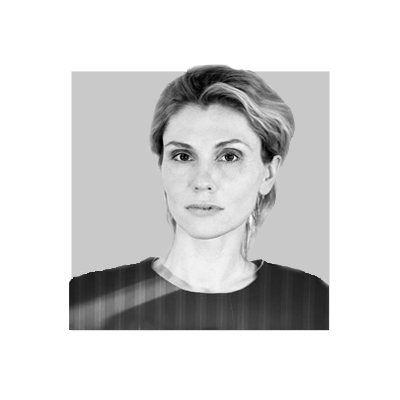
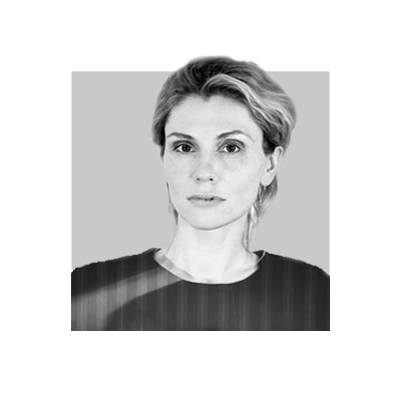
new photo

Changed region(s): [[0.15, 0.12, 0.84, 0.81], [0.33, 0.81, 0.36, 0.84]]

diff --git a/_layouts/home.html b/_layouts/home.html
@@ -516,27 +516,27 @@ layout: wrapper
                         </tbody>
                     </table> <!--end of Tolik-->
 
+
                     <table>
                         <tbody>
                         <tr>
                             <td>
-                                <img class="team-img" src="{{ site.baseurl }}/assets/img/sashko.png"/>
-
+                                <img class="team-img" src="{{ site.baseurl }}/assets/img/galyna.png"/>
                             </td>
                             <td>
-                                <p class="team-descript">Аналітик даних. Збір і аналіз даних. Керівник проекту
-                                    «Вкрадений Дніпро». Досліджує доступність публічного простору в Києві, маніпуляції
-                                    громадською думкою.</p>
+                                <p class="team-descript">Заступник виконавчого директора. Керівник проектів. Відповідає за організаційний розвиток та роботу з донорами. Має досвід роботи в бізнесі.
                             </td>
                         </tr>
                         <tr>
                             <td>
-                                <h5 class="team-descript-name" style="text-align: right"><b>Олександр<br><span
-                                        style="text-transform: uppercase;">Оксимець</span> </b></h5>
+                                <h5 class="team-descript-name" style="text-align: right"><b>Галина<br><span
+                                        style="text-transform: uppercase;">Пастух</span> </b></h5>
                             </td>
                         </tr>
                         </tbody>
-                    </table> <!--end of Sashko-->
+                    </table> <!--end of Galyna-->
+
+
 
 
                     <table>
@@ -560,27 +560,50 @@ layout: wrapper
                             </td>
                         </tr>
                         </tbody>
-                    </table> <!--end of Sashko-->
+                    </table> <!--end of Vlad-->
 
                     <table>
                         <tbody>
                         <tr>
                             <td>
-                                <img class="team-img" src="{{ site.baseurl }}/assets/img/galyna.png"/>
+                                <img class="team-img" src="{{ site.baseurl }}/assets/img/sashko.png"/>
+
                             </td>
                             <td>
-                                <p class="team-descript">Керівник проектів. Відповідає за організаційний розвиток та
-                                    роботу з донорами. Має досвід роботи в бізнесі.
+                                <p class="team-descript">Аналітик даних. Збір і аналіз даних. Керівник проекту
+                                    «Вкрадений Дніпро». Досліджує доступність публічного простору в Києві, маніпуляції
+                                    громадською думкою.</p>
                             </td>
                         </tr>
                         <tr>
                             <td>
-                                <h5 class="team-descript-name" style="text-align: right"><b>Галина<br><span
-                                        style="text-transform: uppercase;">Пастух</span> </b></h5>
+                                <h5 class="team-descript-name" style="text-align: right"><b>Олександр<br><span
+                                        style="text-transform: uppercase;">Оксимець</span> </b></h5>
                             </td>
                         </tr>
                         </tbody>
-                    </table> <!--end of Galyna-->
+                    </table> <!--end of Sashko-->
+
+                    <!-- Romanenko-->
+                    <table>
+                        <tbody>
+                        <tr>
+                            <td>
+                                <img class="team-img" src="{{ site.baseurl }}/assets/img/romanenko.png"/>
+                            </td>
+                            <td>
+                                <p class="team-descript">Аналітик даних. Соціолог. Досліджує соціальні мережі,
+                                    пропаганду, фейки.
+                            </td>
+                        </tr>
+                        <tr>
+                            <td>
+                                <h5 class="team-descript-name" style="text-align: right"><b>Надія<br><span
+                                        style="text-transform: uppercase;">Романенко</span> </b></h5>
+                            </td>
+                        </tr>
+                        </tbody>
+                    </table> <!--end of Романенко-->
 
                     <!-- Kelm-->
                     <table>
@@ -603,47 +626,6 @@ layout: wrapper
                         </tbody>
                     </table> <!--end of Kelm-->
 
-                    <!-- Tymoshenko-->
-                    <table>
-                        <tbody>
-                        <tr>
-                            <td>
-                                <img class="team-img" src="{{ site.baseurl }}/assets/img/tymoshenko.png"/>
-                            </td>
-                            <td>
-                                <p class="team-descript">SMM. Веде сторінки організації в соціальних мережах.
-                            </td>
-                        </tr>
-                        <tr>
-                            <td>
-                                <h5 class="team-descript-name" style="text-align: right"><b>Олександра<br><span
-                                        style="text-transform: uppercase;">Тимошенко</span> </b></h5>
-                            </td>
-                        </tr>
-                        </tbody>
-                    </table> <!--end of Tymoshenko-->
-
-                    <!-- Romanenko-->
-                    <table>
-                        <tbody>
-                        <tr>
-                            <td>
-                                <img class="team-img" src="{{ site.baseurl }}/assets/img/romanenko_new.png"/>
-                            </td>
-                            <td>
-                                <p class="team-descript">Аналітик даних. Соціолог. Досліджує соціальні мережі,
-                                    пропаганду, фейки.
-                            </td>
-                        </tr>
-                        <tr>
-                            <td>
-                                <h5 class="team-descript-name" style="text-align: right"><b>Надія<br><span
-                                        style="text-transform: uppercase;">Романенко</span> </b></h5>
-                            </td>
-                        </tr>
-                        </tbody>
-                    </table> <!--end of Романенко-->
-
 
                     <!-- Drozdova-->
                     <table>
@@ -664,6 +646,47 @@ layout: wrapper
                         </tr>
                         </tbody>
                     </table> <!--end of Drozdova-->
+
+                    <!-- Tymoshyk -->
+                    <table>
+                        <tbody>
+                        <tr>
+                            <td>
+                                <img class="team-img" src="{{ site.baseurl }}/assets/img/tymoshuk.png"/>
+                            </td>
+                            <td>
+                                <p class="team-descript">Журналіст
+                            </td>
+                        </tr>
+                        <tr>
+                            <td>
+                                <h5 class="team-descript-name" style="text-align: right"><b>Ярослава<br><span
+                                        style="text-transform: uppercase;">Тимощук</span> </b></h5>
+                            </td>
+                        </tr>
+                        </tbody>
+                    </table> <!--end of Drozdova-->
+
+                    <!-- Tymoshenko-->
+                    <table>
+                        <tbody>
+                        <tr>
+                            <td>
+                                <img class="team-img" src="{{ site.baseurl }}/assets/img/tymoshenko.png"/>
+                            </td>
+                            <td>
+                                <p class="team-descript">SMM. Веде сторінки організації в соціальних мережах.
+                            </td>
+                        </tr>
+                        <tr>
+                            <td>
+                                <h5 class="team-descript-name" style="text-align: right"><b>Олександра<br><span
+                                        style="text-transform: uppercase;">Тимошенко</span> </b></h5>
+                            </td>
+                        </tr>
+                        </tbody>
+                    </table> <!--end of Tymoshenko-->
+
 
                     <!-- Dmytro-->
                     <table>
